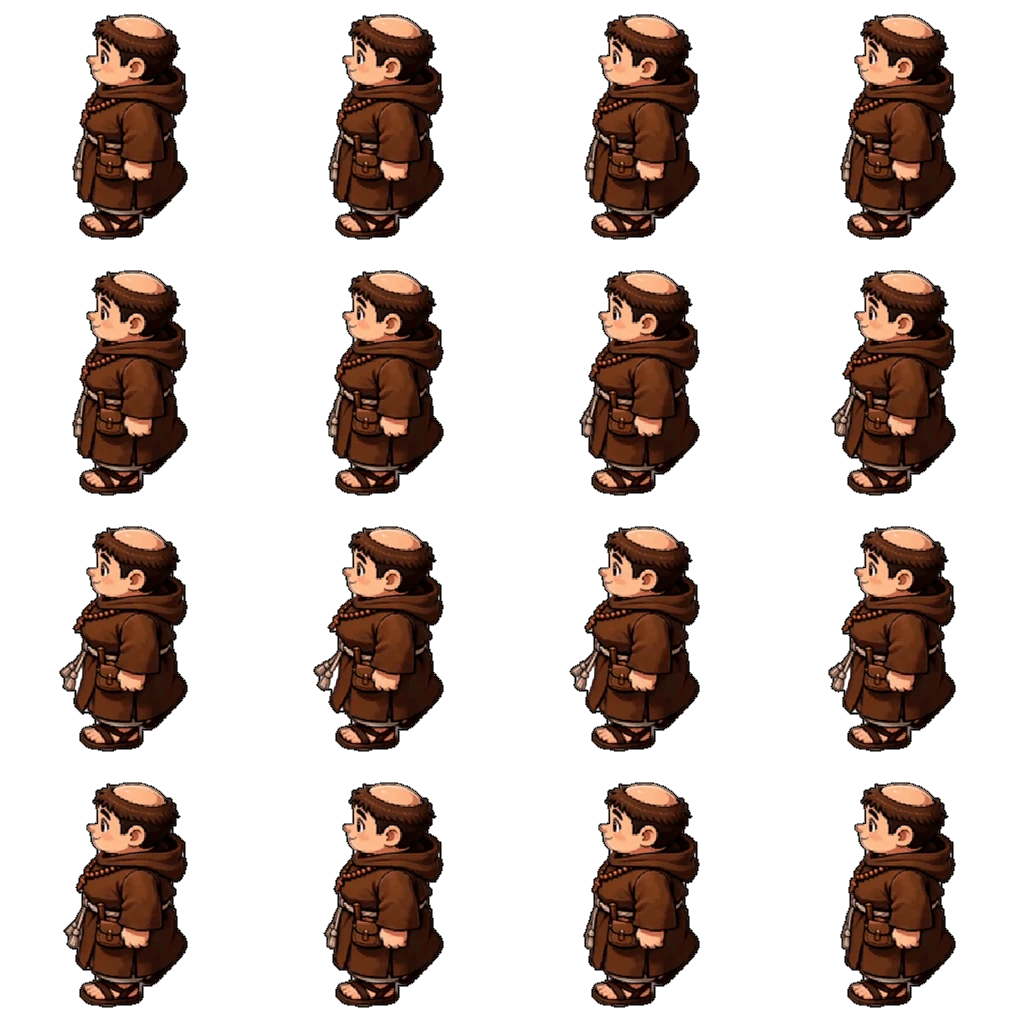
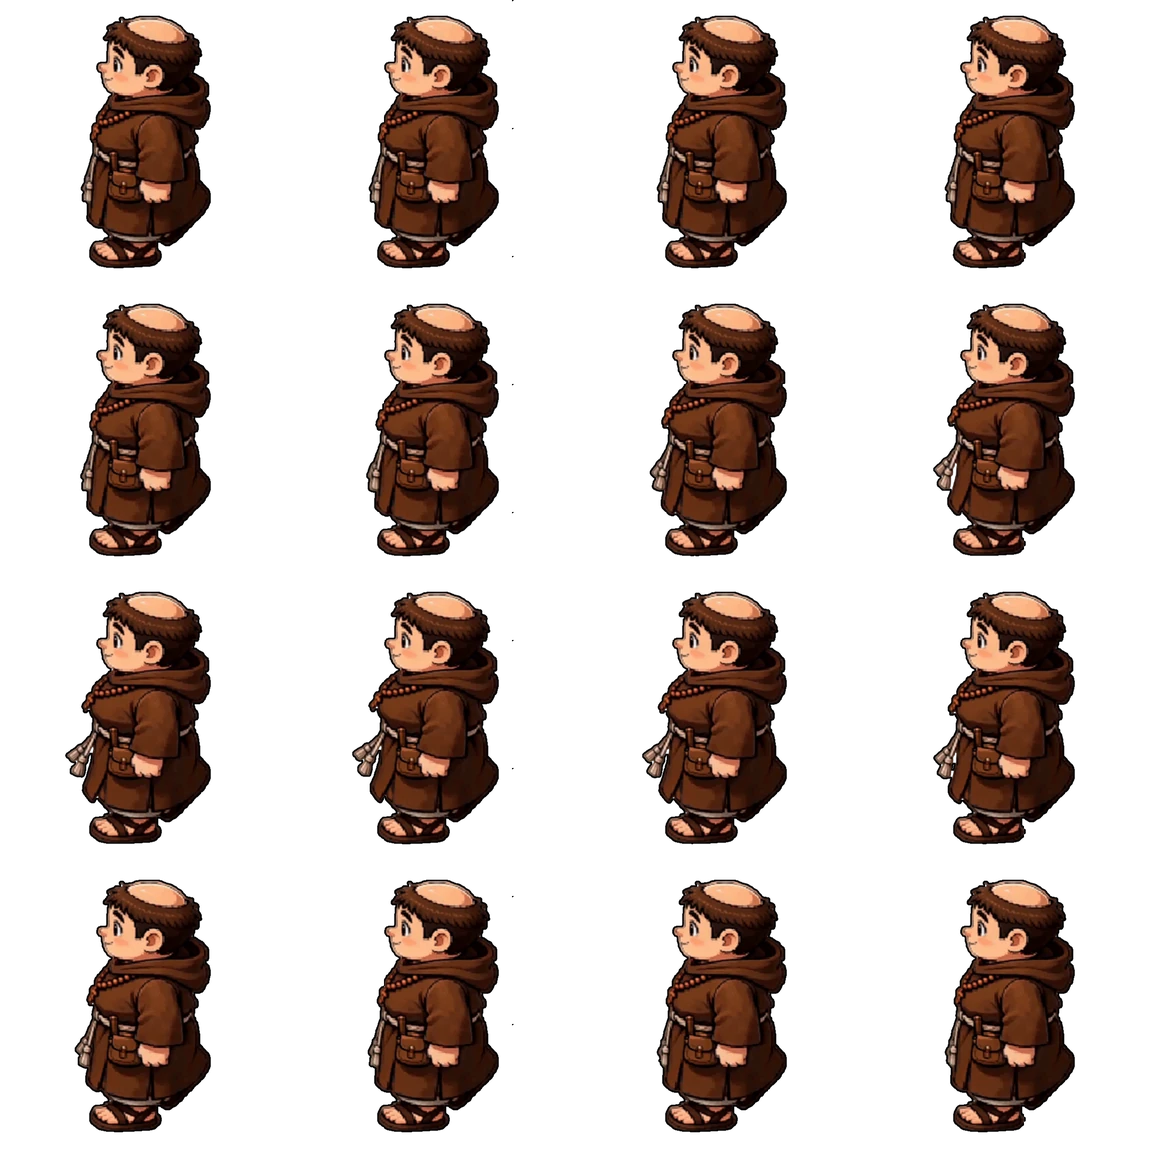
Idle d'Ineu esquerra i dreta en alta resolució; pistes de la clau de l'Iscu més clares (M5)

diff --git a/index.html b/index.html
@@ -61,62 +61,62 @@
     <div id="joc"></div>
 
     <!-- L'ordre importa: cada fitxer fa servir coses dels anteriors -->
-    <script src="js/sfx.js?v=2611185600"></script>
-    <script src="js/partida.js?v=2611185600"></script>
-    <script src="js/progres.js?v=2611185600"></script>
-    <script src="js/dibuixos.js?v=2611185600"></script>
-    <script src="js/icones.js?v=2611185600"></script>
-    <script src="js/dibuixos_biblio.js?v=2611185600"></script>
-    <script src="js/dibuixos_cela.js?v=2611185600"></script>
-    <script src="js/dibuixos_taller.js?v=2611185600"></script>
+    <script src="js/sfx.js?v=2611187000"></script>
+    <script src="js/partida.js?v=2611187000"></script>
+    <script src="js/progres.js?v=2611187000"></script>
+    <script src="js/dibuixos.js?v=2611187000"></script>
+    <script src="js/icones.js?v=2611187000"></script>
+    <script src="js/dibuixos_biblio.js?v=2611187000"></script>
+    <script src="js/dibuixos_cela.js?v=2611187000"></script>
+    <script src="js/dibuixos_taller.js?v=2611187000"></script>
     <script src="js/dibuixos_cripta.js?v=2611161400"></script>
-    <script src="js/dibuixos_georgi.js?v=2611185600"></script>
-    <script src="js/dibuixos_oratori.js?v=2611185600"></script>
-    <script src="js/dibuixos_ermita.js?v=2611185600"></script>
-    <script src="js/dibuixos_casa.js?v=2611185600"></script>
-    <script src="js/dibuixos_proleg.js?v=2611185600"></script>
-    <script src="js/dibuixos_pingpong.js?v=2611185600"></script>
-    <script src="js/assets.js?v=2611185600"></script>
-    <script src="js/dialegs.js?v=2611185600"></script>
-    <script src="js/ui.js?v=2611185600"></script>
-    <script src="js/zona_base.js?v=2611185600"></script>
-    <script src="js/atac_arma.js?v=2611185600"></script>
-    <script src="js/combat.js?v=2611185600"></script>
-    <script src="js/musica.js?v=2611185600"></script>
-    <script src="js/zones/placa.js?v=2611185600"></script>
-    <script src="js/zones/esglesia.js?v=2611185600"></script>
-    <script src="js/zones/monestir.js?v=2611185600"></script>
-    <script src="js/zones/bassadoria.js?v=2611185600"></script>
-    <script src="js/zones/casa_gran.js?v=2611185600"></script>
-    <script src="js/zones/nord.js?v=2611185600"></script>
-    <script src="js/zones/cirosa.js?v=2611185600"></script>
-    <script src="js/estels.js?v=2611185600"></script>
-    <script src="js/pingpong.js?v=2611185600"></script>
-    <script src="js/credits.js?v=2611185600"></script>
-    <script src="js/zones/oest.js?v=2611185600"></script>
-    <script src="js/zones/bosc_pi.js?v=2611185600"></script>
-    <script src="js/zones/cementiri.js?v=2611185600"></script>
-    <script src="js/zones/casa.js?v=2611185600"></script>
-    <script src="js/zones/cabana.js?v=2611185600"></script>
-    <script src="js/zones/cami.js?v=2611185600"></script>
-    <script src="js/zones/ermita.js?v=2611185600"></script>
-    <script src="js/zones/era.js?v=2611185600"></script>
-    <script src="js/zones/jardi.js?v=2611185600"></script>
-    <script src="js/zones/torre.js?v=2611185600"></script>
-    <script src="js/zones/hostatgeria.js?v=2611185600"></script>
-    <script src="js/zones/taverna.js?v=2611185600"></script>
-    <script src="js/zones/gabia.js?v=2611185600"></script>
-    <script src="js/zones/gabia_decor.js?v=2611185600"></script>
-    <script src="js/zones/biblioteca.js?v=2611185600"></script>
-    <script src="js/zones/rebedor.js?v=2611185600"></script>
-    <script src="js/zones/cela.js?v=2611185600"></script>
-    <script src="js/diari.js?v=2611185600"></script>
-    <script src="js/mapa.js?v=2611185600"></script>
-    <script src="js/proves_llistes.js?v=2611185600"></script>
-    <script src="js/proves_escenaris.js?v=2611185600"></script>
-    <script src="js/proves.js?v=2611185600"></script>
-    <script src="js/intro.js?v=2611185600"></script>
-    <script src="js/main.js?v=2611185600"></script>
+    <script src="js/dibuixos_georgi.js?v=2611187000"></script>
+    <script src="js/dibuixos_oratori.js?v=2611187000"></script>
+    <script src="js/dibuixos_ermita.js?v=2611187000"></script>
+    <script src="js/dibuixos_casa.js?v=2611187000"></script>
+    <script src="js/dibuixos_proleg.js?v=2611187000"></script>
+    <script src="js/dibuixos_pingpong.js?v=2611187000"></script>
+    <script src="js/assets.js?v=2611187000"></script>
+    <script src="js/dialegs.js?v=2611187000"></script>
+    <script src="js/ui.js?v=2611187000"></script>
+    <script src="js/zona_base.js?v=2611187000"></script>
+    <script src="js/atac_arma.js?v=2611187000"></script>
+    <script src="js/combat.js?v=2611187000"></script>
+    <script src="js/musica.js?v=2611187000"></script>
+    <script src="js/zones/placa.js?v=2611187000"></script>
+    <script src="js/zones/esglesia.js?v=2611187000"></script>
+    <script src="js/zones/monestir.js?v=2611187000"></script>
+    <script src="js/zones/bassadoria.js?v=2611187000"></script>
+    <script src="js/zones/casa_gran.js?v=2611187000"></script>
+    <script src="js/zones/nord.js?v=2611187000"></script>
+    <script src="js/zones/cirosa.js?v=2611187000"></script>
+    <script src="js/estels.js?v=2611187000"></script>
+    <script src="js/pingpong.js?v=2611187000"></script>
+    <script src="js/credits.js?v=2611187000"></script>
+    <script src="js/zones/oest.js?v=2611187000"></script>
+    <script src="js/zones/bosc_pi.js?v=2611187000"></script>
+    <script src="js/zones/cementiri.js?v=2611187000"></script>
+    <script src="js/zones/casa.js?v=2611187000"></script>
+    <script src="js/zones/cabana.js?v=2611187000"></script>
+    <script src="js/zones/cami.js?v=2611187000"></script>
+    <script src="js/zones/ermita.js?v=2611187000"></script>
+    <script src="js/zones/era.js?v=2611187000"></script>
+    <script src="js/zones/jardi.js?v=2611187000"></script>
+    <script src="js/zones/torre.js?v=2611187000"></script>
+    <script src="js/zones/hostatgeria.js?v=2611187000"></script>
+    <script src="js/zones/taverna.js?v=2611187000"></script>
+    <script src="js/zones/gabia.js?v=2611187000"></script>
+    <script src="js/zones/gabia_decor.js?v=2611187000"></script>
+    <script src="js/zones/biblioteca.js?v=2611187000"></script>
+    <script src="js/zones/rebedor.js?v=2611187000"></script>
+    <script src="js/zones/cela.js?v=2611187000"></script>
+    <script src="js/diari.js?v=2611187000"></script>
+    <script src="js/mapa.js?v=2611187000"></script>
+    <script src="js/proves_llistes.js?v=2611187000"></script>
+    <script src="js/proves_escenaris.js?v=2611187000"></script>
+    <script src="js/proves.js?v=2611187000"></script>
+    <script src="js/intro.js?v=2611187000"></script>
+    <script src="js/main.js?v=2611187000"></script>
     <script>
         // Service worker: només amb http(s) (no obrint el fitxer directament) i sense fer fallar el joc si no pot ser
         window.addEventListener('load', () => { try { if (typeof game !== 'undefined') sessionStorage.removeItem('runna_reintent'); } catch (e) { } });

diff --git a/js/assets.js b/js/assets.js
@@ -235,7 +235,7 @@ const DIRS_INEU = ['down', 'up', 'left', 'right', 'southwest', 'southeast', 'nor
 // (eines/fer_ineu_v2.py). Esquerra i dreta són walk_elev_/idle_elev_ (eines/fer_ineu_v2_alt.py): l'idle dret és el mirall de l'esquerre i el caminar esquerre el mirall del dret.
 // Les mides dels idles s'igualen a les dels caminars amb eines/igualar_idle_ineu.py. Els fulls i els prototips anteriors són a art/ineu/arxiu/.
 const rutaIneu = (dir, idle) => {
-    const v = '?v=2611185600';
+    const v = '?v=2611187000';
     if (dir === 'left' || dir === 'right') return `assets/ineu/${idle ? 'idle/idle_elev_' : 'caminar/walk_elev_'}${dir}.webp${v}`;
     return `assets/ineu/${idle ? 'idle/idle_' : 'caminar/'}${dir}.webp${v}`;
 };
@@ -259,10 +259,10 @@ const SPRITE_INEU = {
         southwest: { frames: [9, 10, 11, 12, 13, 14, 15], fps: 18.5 }, southeast: { frames: [8, 9, 10, 11, 12, 13, 14], fps: 18.5 },
         northwest: { frames: [8, 9, 10, 11, 12, 13, 14], fps: 18.5 }, northeast: { frames: [8, 9, 10, 11, 12, 13, 14], fps: 18.5 }
     },
-    // Idle en alta resolució (assets/ineu/idle/idle_<direcció>.webp, eines/fer_idle_ineu_hd.py): cel·les de 288 px que NO es redueixen (els altres fulls es redueixen a k = 0,75 → 192 px).
+    // Idle en alta resolució (assets/ineu/idle/idle_<direcció>.webp, eines/fer_idle_ineu_hd.py i fer_idle_ineu_hd_lat.py): cel·les de 288 px que NO es redueixen (els altres fulls es redueixen a k = 0,75 → 192 px).
     // L'Ineu aturat es veu igual de gran, amb 1,5 vegades més detall: com que la cel·la és més gran, el sprite s'escala per escalaIdleHD mentre dura aquest full (vegeu crearIneu).
-    // Les vistes esquerra i dreta (idle_elev_*) continuen sent de 256 reduïts.
-    idleHD: { dirs: ['down', 'up', 'southwest', 'southeast', 'northwest', 'northeast'], cel: 288 },
+    // Esquerra i dreta (idle_elev_*) també, fets amb eines/fer_idle_ineu_hd_lat.py.
+    idleHD: { dirs: ['down', 'up', 'left', 'right', 'southwest', 'southeast', 'northwest', 'northeast'], cel: 288 },
     quiet: 2,             // fotograma de repòs de cada direcció
     // Memòria: les fulles de l'Ineu es redueixen en carregar a cel·les de 192.
     // Totes les mides d'aquí (i les de l'arma, atac_arma.js) continuen en píxels de la cel·la de 256; on cal píxels de la

diff --git a/js/progres.js b/js/progres.js
@@ -139,8 +139,8 @@ const PROGRES = {
         { id: 'soterrani', marca: ['portaSoterraniOberta'], fet: E => E.flag('portaSoterraniOberta'),
           pista: E => "Al Pati del Celler hi ha una porta de ferro. La clau de ferro n'és amiga." },
         { id: 'clauIscu', marca: ['iscuTrobat', 'clauGirgoles', 'obj:clau_girgoles'], fet: E => E.te('clau_girgoles') || E.flag('portaFerroOberta'),
-          pista: E => E.flag('iscuTrobat') ? "L\'Iscu t'espera a la cabana amagada: té una clau rovellada per a tu."
-              : "La porta del fons té un pany petit. L\'Iscu, el noi de la Taverna, ho ha vist tot: s'amaga pel camí de la Desaparició." },
+          pista: E => E.flag('iscuTrobat') ? "L\'Iscu t'espera a la cabana amagada, en un buit entre els arbres al nord del camí de la Desaparició: té una clau rovellada per a tu."
+              : "La porta del fons té un pany petit. L\'Iscu, el noi de la Taverna, ho ha vist tot: s'amaga pel camí de la Desaparició: busca un buit entre els arbres, al nord del camí." },
         { id: 'portaFerro', marca: ['portaFerroOberta'], fet: E => E.flag('portaFerroOberta'),
           pista: E => !E.flag('cantMiracle') || !E.te('benedicio_fraterna') ? "La porta de ferro del fons de la galeria de sota la Taverna només s\'obre amb la clau rovellada, el Cant del Miracle i l\'Empara de les sacerdotesses." : "Al fons de la galeria de la Porta de Ferro, la clau rovellada de l\'Iscu té una porta de ferro que treu boira." },
         { id: 'girgoles', marca: ['girgolesEnceses'], fet: E => E.flag('girgolesEnceses'),

diff --git a/sw.js b/sw.js
@@ -9,7 +9,7 @@
  * No hi ha cap llista de fitxers: es guarda el que el joc va demanant mentre es juga (uns 50 MB com a molt).
  * Per esborrar el que ha guardat: puja el número de VERSIO (es buida la memòria de les versions anteriors).
  */
-const VERSIO = 'runna-261';
+const VERSIO = 'runna-263';
 
 self.addEventListener('install', () => self.skipWaiting());
 

diff --git a/eines/fer_idle_ineu_hd_lat.py b/eines/fer_idle_ineu_hd_lat.py
@@ -1,0 +1,50 @@
+#!/usr/bin/env python3
+"""Idle de l'Ineu en ALTA RESOLUCIÓ, vistes esquerra i dreta → assets/ineu/idle/idle_elev_left.webp i idle_elev_right.webp (cel·les de 288 px, sense reduir al carregar).
+
+    python3 eines/fer_idle_ineu_hd_lat.py
+
+Complement d'eines/fer_idle_ineu_hd.py (que fa les altres sis direccions). Origen: art/ineu/v2/zip_idle_hd/idle_elev_left.png (AutoSprite, 4x4 de 512, regenerat gratis del mateix
+vídeo que l'antic de 256: art/ineu/v2/alt/idle_elev_left.png). El dret és el mirall de l'esquerre. Mateix càlcul que eines/fer_ineu_v2_alt.py (escala, eixamplament lateral, peus i
+centre), mesurat sobre el full de 256 i aplicat als píxels de 512 en una cel·la de 288; contorn a doble mida (gruix 3) i es baixa a 288.
+"""
+import sys
+from pathlib import Path
+import numpy as np
+from PIL import Image, ImageOps
+sys.path.insert(0, str(Path(__file__).resolve().parent))
+from contorn_ineu import contorn
+import fer_ineu_v2 as b
+import fer_ineu_v2_alt as alt
+
+HD = 512
+CEL_HD = 288
+R = CEL_HD / 256
+
+
+def main():
+    src = Image.open(b.ARREL / 'art' / 'ineu' / 'v2' / 'zip_idle_hd' / 'idle_elev_left.png').convert('RGBA')
+    assert src.size == (4 * HD, 4 * HD), src.size
+    hd_l = [src.crop(((q % 4) * HD, (q // 4) * HD, (q % 4) * HD + HD, (q // 4) * HD + HD)) for q in range(16)]
+    hd_r = [ImageOps.mirror(c) for c in hd_l]
+    for nom, fs_hd in (('idle_elev_left', hd_l), ('idle_elev_right', hd_r)):
+        fs = b.fots(alt.ORIGEN / (nom + '.png'))                                  # el full de 256 que es va fer servir fins ara (per al càlcul)
+        boxes = [b.bbox(x) for x in fs]
+        f = b.ALT_VELLA / float(np.median([q[3] - q[2] + 1 for q in boxes]))
+        fx = f * min(alt.MAX_ESTIR, max(1.0, alt.AMPLE_LAT / (float(np.median([q[1] - q[0] + 1 for q in boxes])) * f)))
+        cx = float(np.median([(q[0] + q[1]) / 2 for q in boxes])); bot = float(np.median([q[3] for q in boxes]))
+        dx, dy = round(128 - cx * fx), round(b.PEUS - bot * f)
+        nx, ny = round(HD * fx * R / 2 * 2), round(HD * f * R / 2 * 2)             # mida de cada fotograma a doble resolució
+        out = Image.new('RGBA', (4 * 2 * CEL_HD, 4 * 2 * CEL_HD), (0, 0, 0, 0))
+        for q, im in enumerate(fs_hd):
+            g = im.resize((nx, ny), Image.LANCZOS)
+            cel = Image.new('RGBA', (2 * CEL_HD, 2 * CEL_HD), (0, 0, 0, 0))
+            cel.paste(g, (round(dx * R * 2), round(dy * R * 2)), g)
+            out.paste(cel, ((q % 4) * 2 * CEL_HD, (q // 4) * 2 * CEL_HD))
+        out = contorn(out, 3).resize((4 * CEL_HD, 4 * CEL_HD), Image.LANCZOS)
+        dest = b.DEST / 'idle' / (nom + '.webp')
+        out.save(dest, 'WEBP', quality=90, alpha_quality=100, method=6)
+        print(nom, 'f', round(f, 3), 'fx', round(fx, 3), '->', dest.name, out.size)
+
+
+if __name__ == '__main__':
+    main()

diff --git a/eines/fer_idle_ineu_hd.py b/eines/fer_idle_ineu_hd.py
@@ -7,7 +7,7 @@ Origen: art/ineu/v2/zip_idle_hd/<dir>.png (AutoSprite, 4x4 fotogrames de 512, re
 Es fa EXACTAMENT la mateixa transformació que a eines/fer_ineu_v2.py + eines/igualar_idle_ineu.py (mateixa escala, mateixos peus i centre, mateixa igualació amb el caminar), però sobre els píxels
 de 512 i en una cel·la de 288 (= 256 · 1,125): així l'Ineu aturat fa la mateixa alçada a la pantalla que sempre, però amb 1,5 vegades més detall que a l'antic (192 px per cel·la, vegeu
 SPRITE_INEU.k a js/assets.js). El contorn es fa a doble mida (576) amb gruix 3 i es baixa a 288 (≈ 1,5 px).
-Les vistes esquerra i dreta (idle_elev_*) no es toquen: venen d'un altre vídeo (càmera elevada).
+Les vistes esquerra i dreta (idle_elev_*) venen d'un altre vídeo (càmera elevada): les fa eines/fer_idle_ineu_hd_lat.py.
 """
 import sys
 from pathlib import Path
